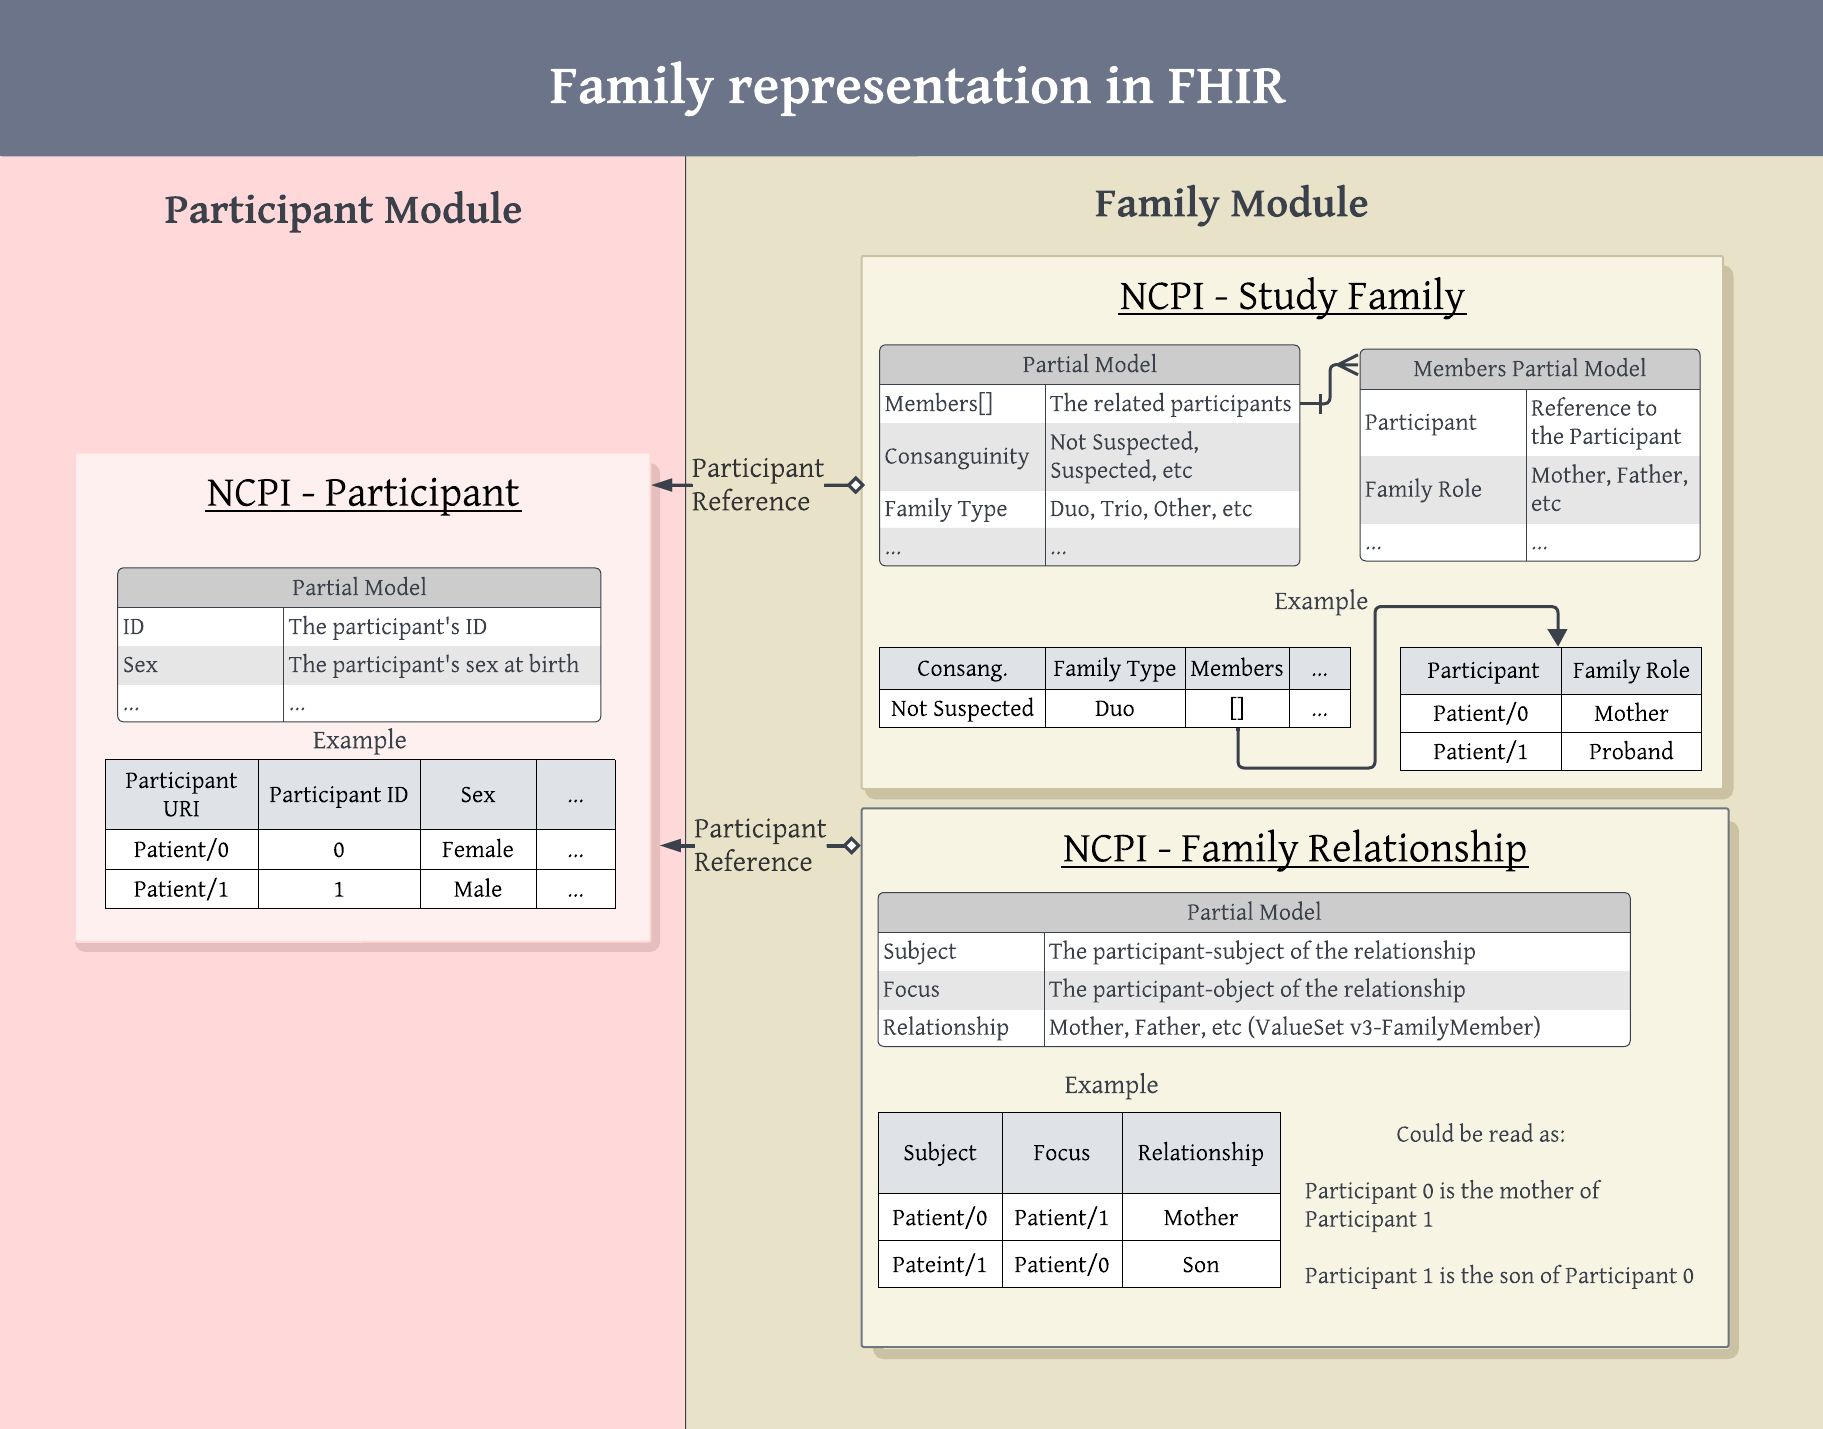
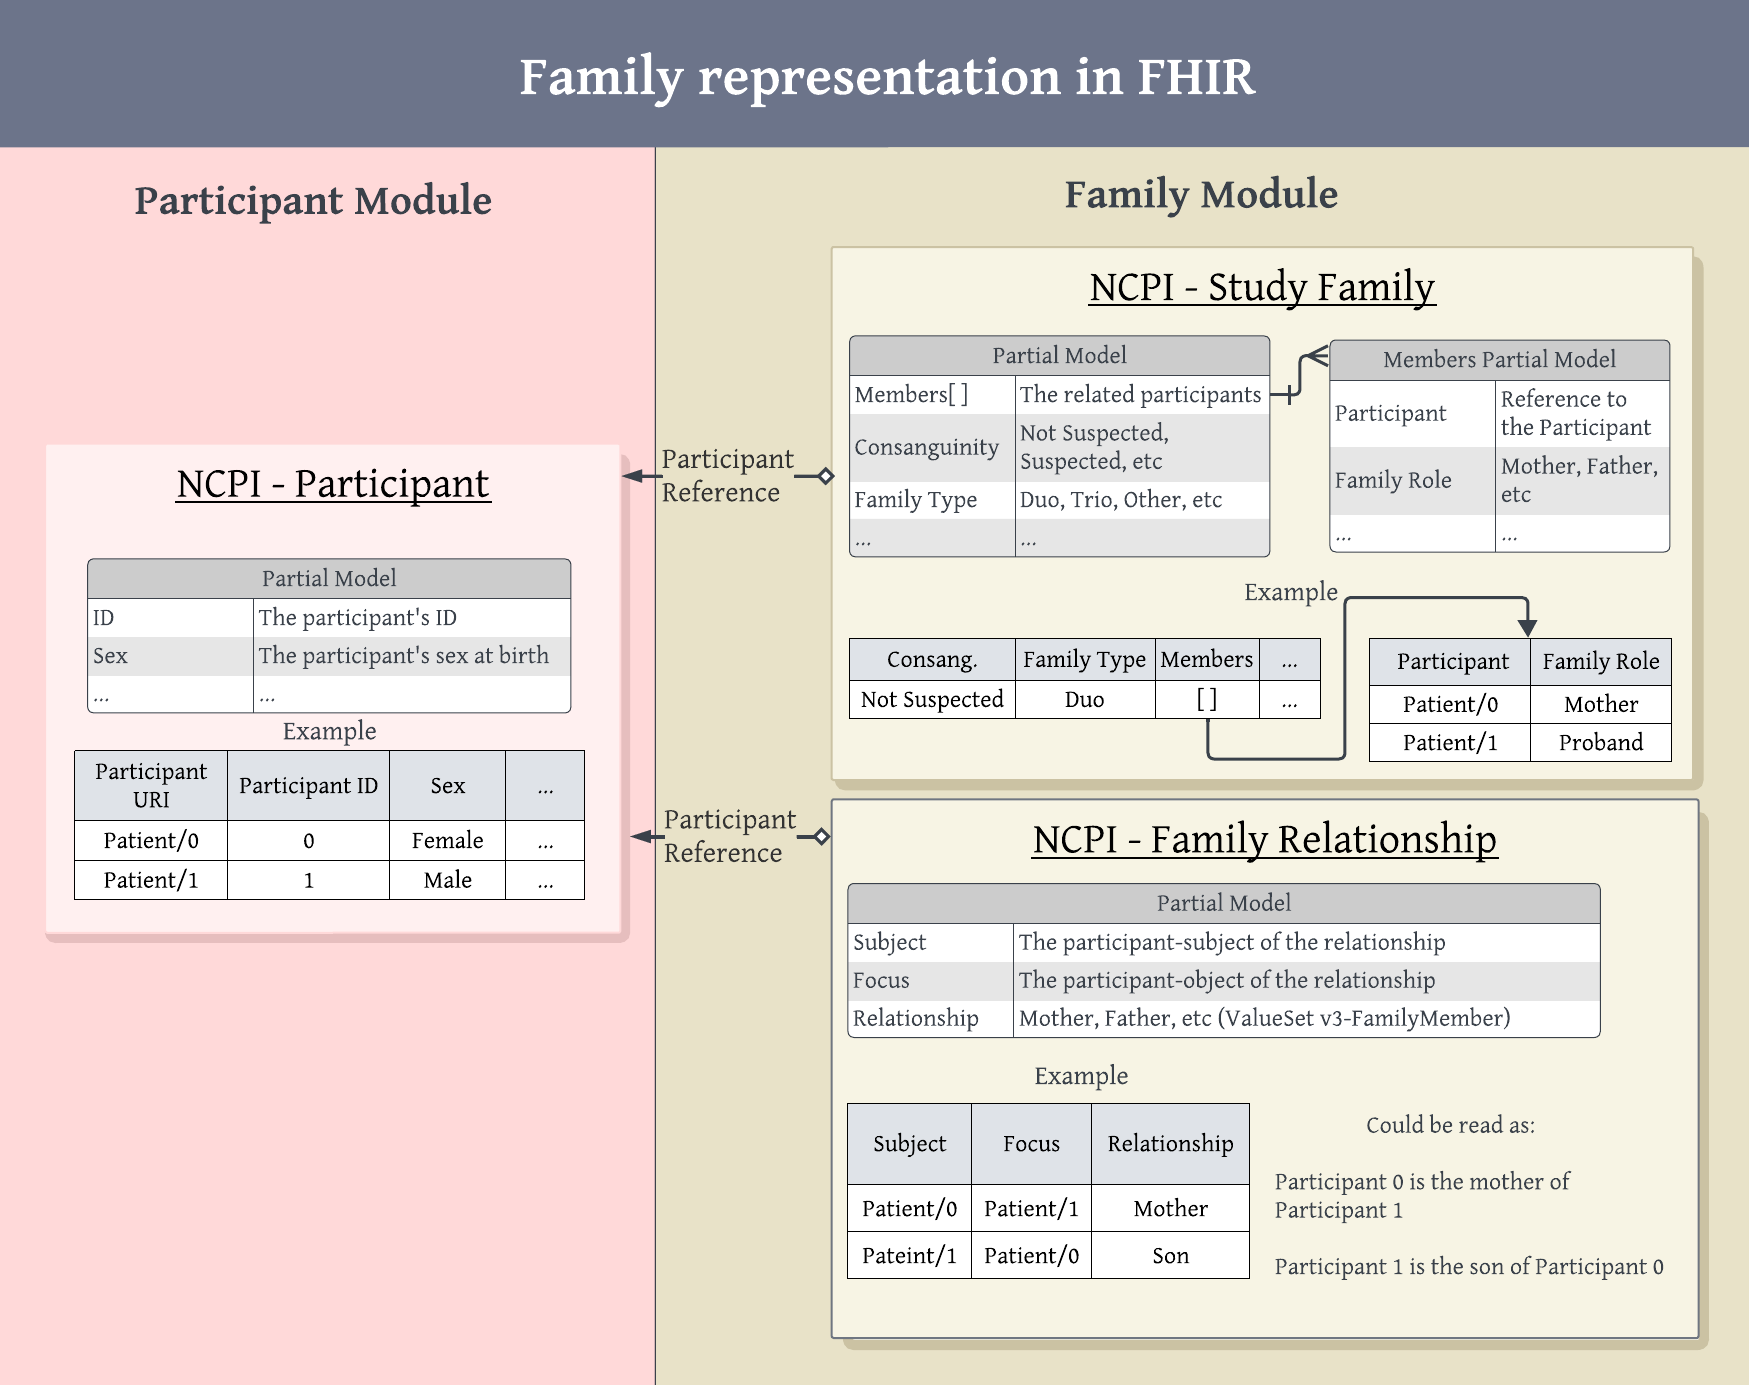
Formatting edits

Changed region(s): [[0.0309, 0.1552, 0.988, 0.9935], [0.0, 0.031, 1.0, 0.1552]]

diff --git a/input/pagecontent/module_overview.md b/input/pagecontent/module_overview.md
@@ -1,6 +1,8 @@
 While interoperability is a primary objective for using FHIR, research data by it's very nature is quite varied. Much of the data requires approval before access is permitted, yet researchers must know the data exists before they can begin the approval process. Because of issues such as these, the IG itself is broken into modules designed to support specific use cases. For a FHIR server hosting a certain dataset, those building the ETL need only concern themselves with the modules that apply to the use cases describing the datasets they are working with.
 
-<img width="40%" src="ncpi_modules_relationship_overview.png" alt="Modular IG Design" />
+<div style="text-align: center;">
+    <img style="display: block; margin: 0 auto; margin-bottom: 20px;" width="60%" src="ncpi_modules_relationship_overview.png" alt="Modular IG Design" />
+</div>
 
 Some use cases, such as the Data Dictionary component, may be useful across many or even all of the servers implementing the NCPI FHIR IG while others, such as Family Relationships, apply only to a fraction of those servers. Study summary and meta-data would likely lack traditional restrictions on their accessibility and could be hosted on a public server, while row-level, restricted data would be require some sort of authorization to access. 
 
